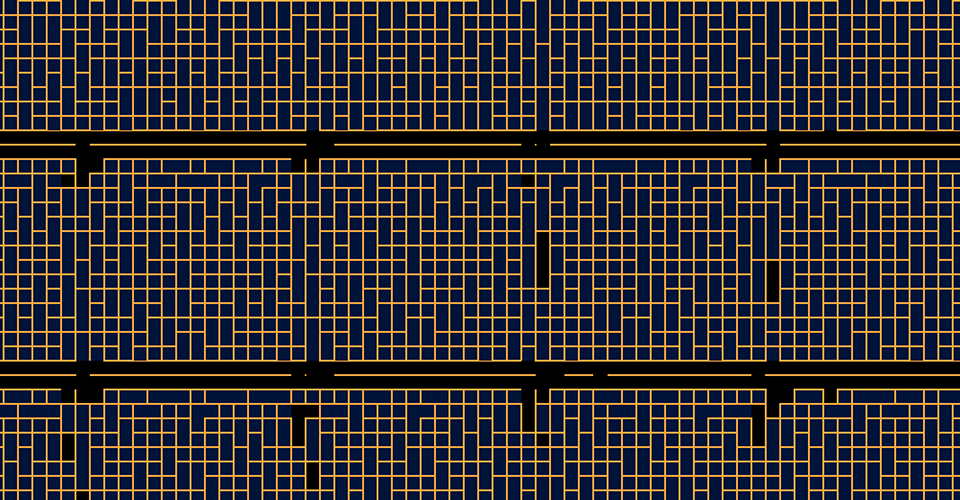
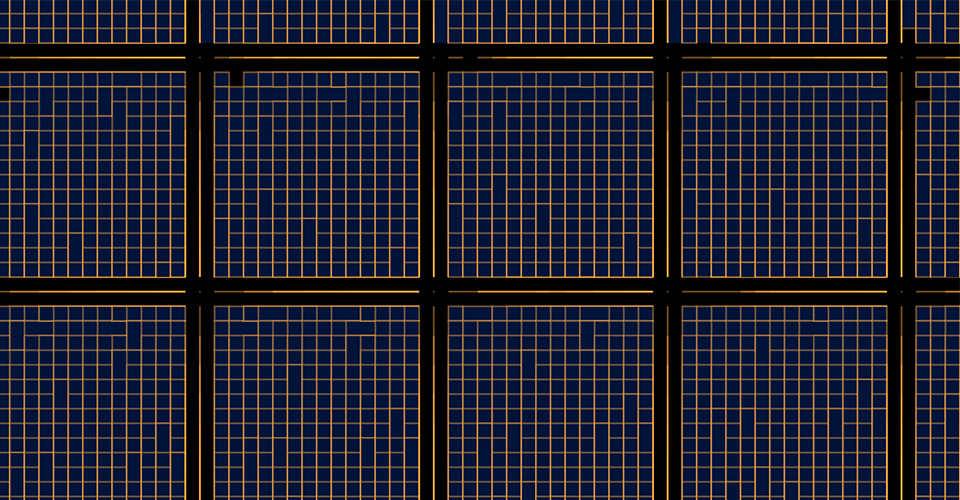
Updated preview and thumbnail images with my latest work for part 3 of ps4

diff --git a/example_10print.js b/example_10print.js
@@ -29,7 +29,7 @@ function drawLayer(p5, slashsize, x1, x2, y1, y2, z) {
       var n_y = y / slashsize;
       var y_pos = p5.map(y, y1, y2, 0, 256);
       var noiseValue = p5.noise(x * noiseScale, y * noiseScale, z);
-      if (noiseValue < 0.5) {
+      if (noiseValue < 0.25) {
         p5.rect(x_pos, y_pos, x_pos+char_width, y_pos-char_height);
       }
       else {
@@ -42,6 +42,6 @@ function drawLayer(p5, slashsize, x1, x2, y1, y2, z) {
 function drawGrid(p5, x1, x2, y1, y2, z, zoom) {
   p5.noiseDetail(8,0.5);
   p5.background(0);
-  p5.stroke(255, 170, 75);
+  p5.stroke(255, 170, 75, 100);
   drawLayer(p5, 16, x1, x2, y1, y2, z);
 }

diff --git a/README.md b/README.md
@@ -12,3 +12,15 @@ CONT.
 
 In part 3 I have removed the stroke transparency and tried to bring a bit more clarity back to the city grid appearance. Now, the black in between the blocks looks like large main highways. Unfortunately, the rest of the grids begin to make less sense now, therefore further iteration is needed.
 
+CONT...
+
+I have added back in the stroke transparency to give the glow effect of city lights. I've also made further adjustments to create more distinct city grids by reducing the noise. That being said, I decided to leave some noise in there so that there was some variance between the different blocks. 
+
+Zooming in creates mini city blocks within the larger one, and this feeds back into the idea of the block within a block concept I mentioned at the start.
+
+The grid is lost once the zoom has reached a certain level, around 5 or 6, and loses context, but I'm not sure that the abstraction is such an issue. I would like to see what it will look like once landmarks are added in.
+
+
+
+
+
